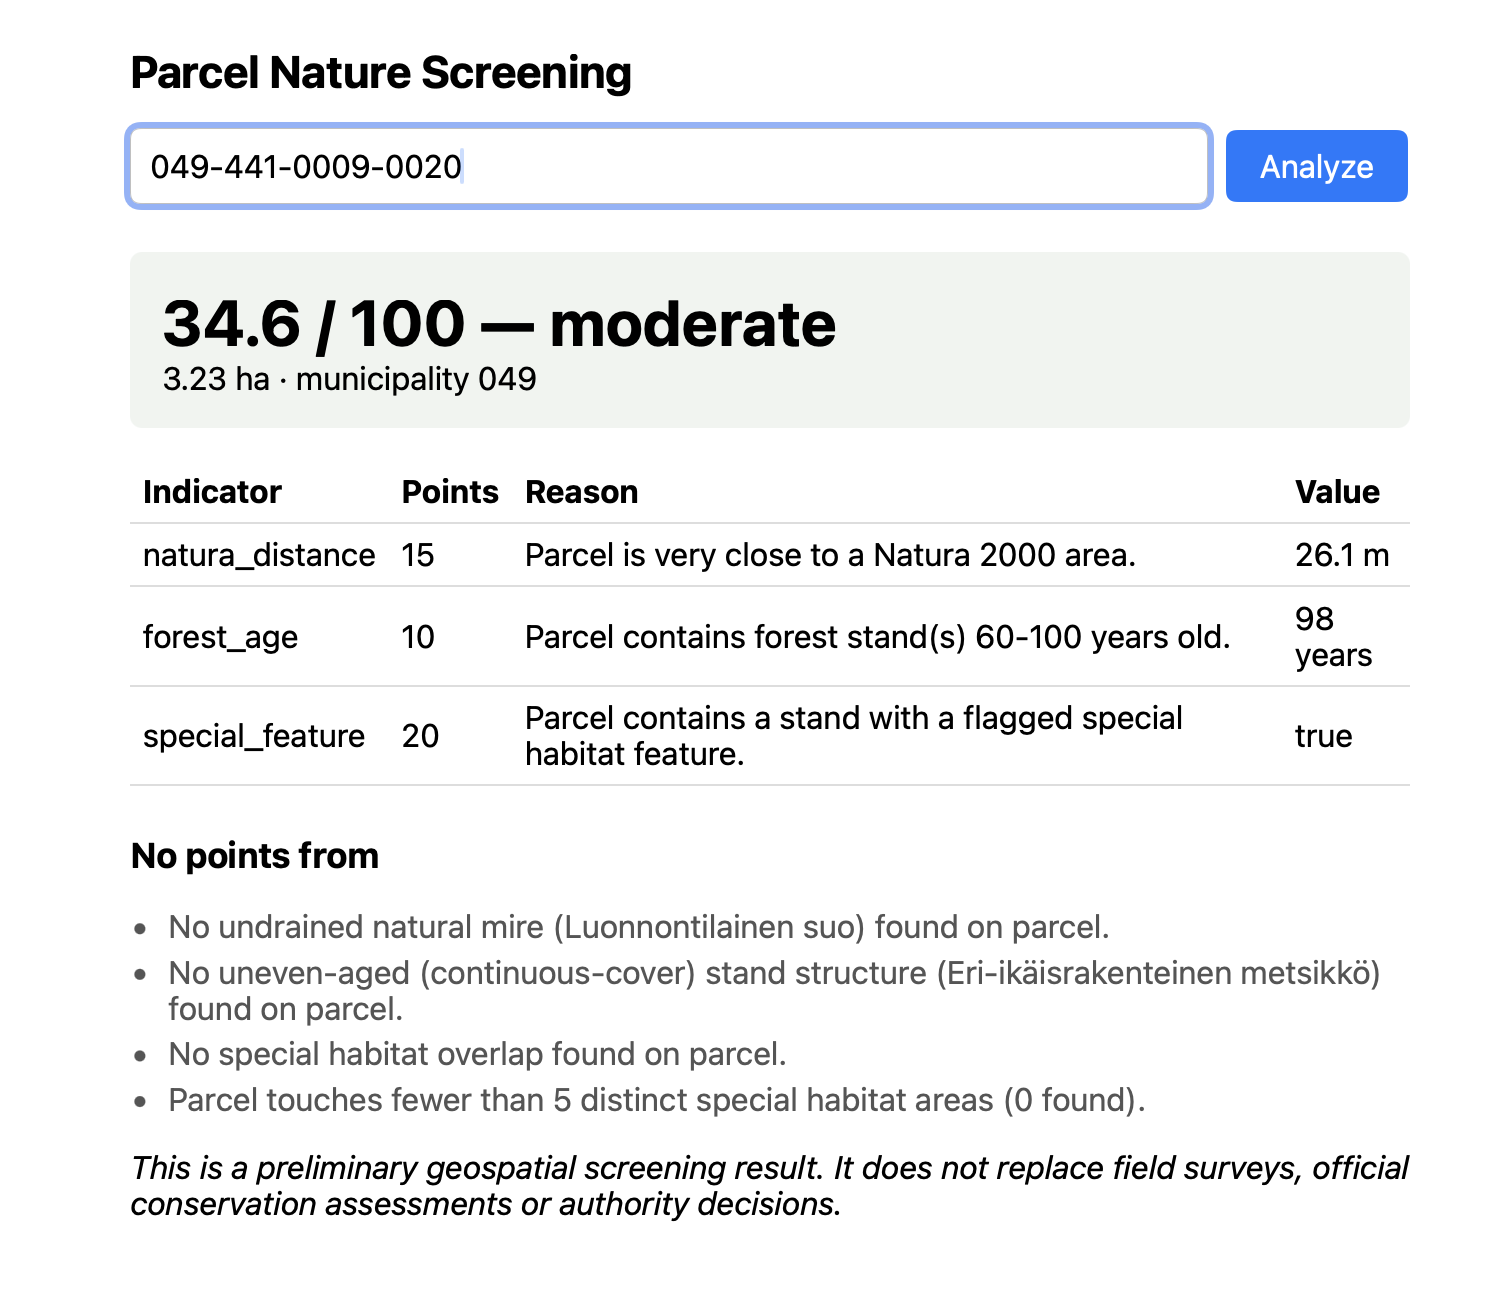
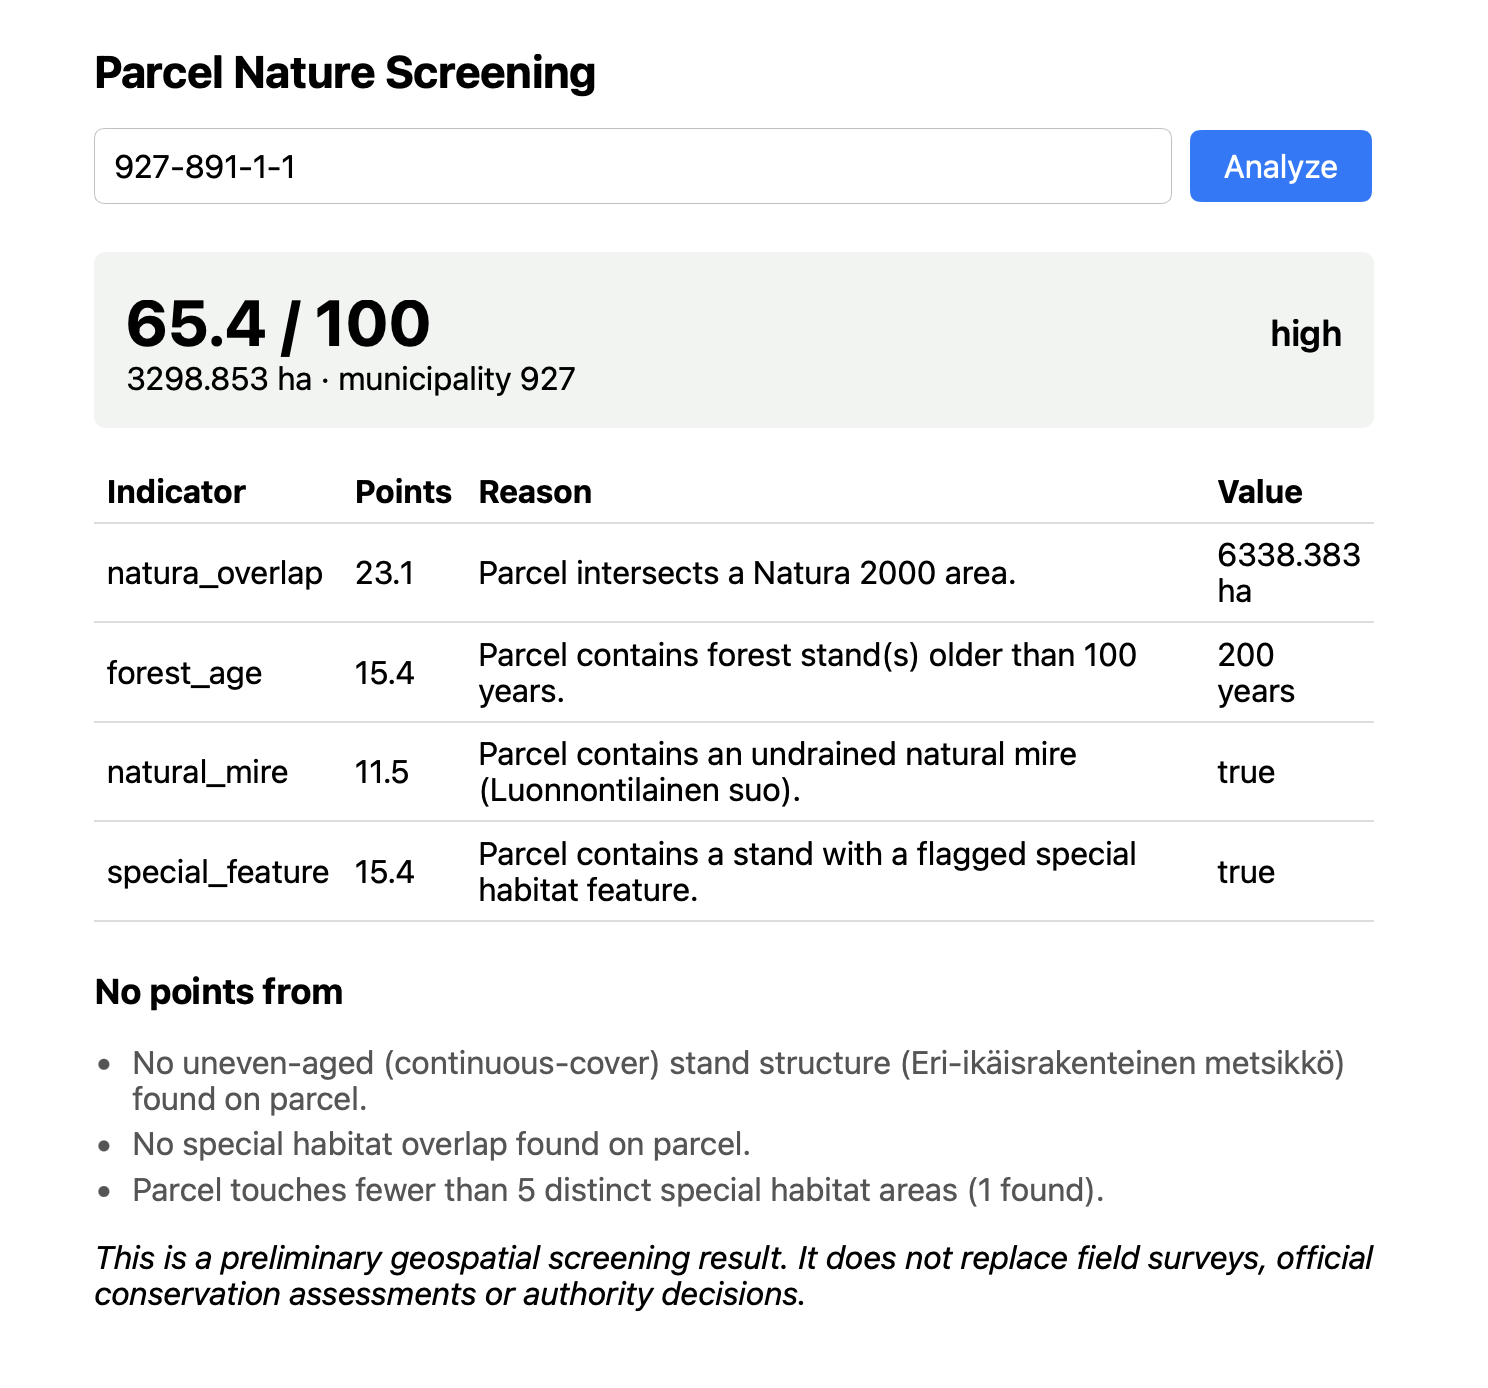
Modified so that unpadded property identifiers are accepted and  scaled each indicators point

diff --git a/src/nature_screening/api/static/index.html b/src/nature_screening/api/static/index.html
@@ -14,7 +14,9 @@
   table { width: 100%; border-collapse: collapse; margin-top: 1rem; }
   th, td { text-align: left; padding: 0.4rem; border-bottom: 1px solid #ddd; }
   .score-box { padding: 1rem; border-radius: 6px; background: #f0f4f0; margin-bottom: 1rem; }
+  .score-box .score-row { display: flex; justify-content: space-between; align-items: baseline; }
   .score-box .score { font-size: 2rem; font-weight: bold; }
+  .score-box .class { font-size: 1.1rem; font-weight: 600; }
   h2 { font-size: 1.1rem; margin-top: 1.5rem; }
   ul.no-points { padding-left: 1.2rem; color: #555; }
   ul.no-points li { margin-bottom: 0.3rem; }
@@ -83,7 +85,10 @@ function renderResult(data) {
 
   return `
     <div class="score-box">
-      <div class="score">${data.biodiversity_potential.score} / 100 — ${data.biodiversity_potential.class}</div>
+      <div class="score-row">
+        <span class="score">${data.biodiversity_potential.score} / 100</span>
+        <span class="class">${data.biodiversity_potential.class}</span>
+      </div>
       <div>${data.parcel.area_ha} ha · municipality ${data.parcel.municipality_code}</div>
     </div>
     <table>

diff --git a/src/nature_screening/analysis/scoring.py b/src/nature_screening/analysis/scoring.py
@@ -1,8 +1,13 @@
 # Highest raw point total any parcel can reach (all indicators triggered,
 # Natura overlap taking the 30-point branch instead of natura_distance):
-# 30 + 20 + 15 + 15 + 20 + 20 + 10 = 130. score_indicators() divides by this
-# to express score_total on a 0-100 scale.
+# 30 + 20 + 15 + 15 + 20 + 20 + 10 = 130. Every indicator's points are scaled
+# by this so both the per-indicator points and score_total sit on a 0-100
+# scale, and the displayed per-indicator points always sum to score_total.
 MAX_RAW_SCORE = 130
+
+
+def scale_points(raw_points: int) -> float:
+    return round(raw_points * 100 / MAX_RAW_SCORE, 1)
 
 
 def classify_score(score: float) -> str:
@@ -18,11 +23,12 @@ def classify_score(score: float) -> str:
 
 def score_natura_overlap(natura_overlap_ha: float) -> dict:
     if natura_overlap_ha > 0:
+        points = scale_points(30)
         return {
-            "points": 30,
+            "points": points,
             "evidence": {
                 "indicator": "natura_overlap",
-                "points": 30,
+                "points": points,
                 "reason": "Parcel intersects a Natura 2000 area.",
                 "value": round(natura_overlap_ha, 3),
                 "unit": "ha",
@@ -59,22 +65,22 @@ def score_natura_distance(nearest_natura_distance_m: float | None) -> dict:
         }
 
     if nearest_natura_distance_m == 0:
-        points = 20
+        raw_points = 20
         reason = "Parcel intersects a Natura 2000 area."
     elif nearest_natura_distance_m <= 250:
-        points = 15
+        raw_points = 15
         reason = "Parcel is very close to a Natura 2000 area."
     elif nearest_natura_distance_m <= 1000:
-        points = 8
+        raw_points = 8
         reason = "Parcel is within 1 km of a Natura 2000 area."
     elif nearest_natura_distance_m <= 5000:
-        points = 3
+        raw_points = 3
         reason = "Parcel is within 5 km of a Natura 2000 area."
     else:
-        points = 0
+        raw_points = 0
         reason = None
 
-    if points == 0:
+    if raw_points == 0:
         return {
             "points": 0,
             "evidence": None,
@@ -85,6 +91,8 @@ def score_natura_distance(nearest_natura_distance_m: float | None) -> dict:
                 "unit": "m",
             },
         }
+
+    points = scale_points(raw_points)
 
     return {
         "points": points,
@@ -118,10 +126,10 @@ def score_forest_age(max_mean_age: int | None) -> dict:
         }
 
     if max_mean_age > 100:
-        points = 20
+        raw_points = 20
         reason = "Parcel contains forest stand(s) older than 100 years."
     elif max_mean_age >= 60:
-        points = 10
+        raw_points = 10
         reason = "Parcel contains forest stand(s) 60-100 years old."
     else:
         return {
@@ -134,6 +142,8 @@ def score_forest_age(max_mean_age: int | None) -> dict:
                 "unit": "years",
             },
         }
+
+    points = scale_points(raw_points)
 
     return {
         "points": points,
@@ -162,11 +172,13 @@ def score_natural_mire(has_natural_mire: bool) -> dict:
             },
         }
 
+    points = scale_points(15)
+
     return {
-        "points": 15,
+        "points": points,
         "evidence": {
             "indicator": "natural_mire",
-            "points": 15,
+            "points": points,
             "reason": "Parcel contains an undrained natural mire (Luonnontilainen suo).",
             "value": True,
             "unit": None,
@@ -196,11 +208,13 @@ def score_uneven_aged_structure(has_uneven_aged_structure: bool) -> dict:
             },
         }
 
+    points = scale_points(15)
+
     return {
-        "points": 15,
+        "points": points,
         "evidence": {
             "indicator": "uneven_aged_structure",
-            "points": 15,
+            "points": points,
             "reason": "Parcel contains an uneven-aged stand (Eri-ikäisrakenteinen metsikkö).",
             "value": True,
             "unit": None,
@@ -223,11 +237,13 @@ def score_special_feature(has_special_feature: bool) -> dict:
             },
         }
 
+    points = scale_points(20)
+
     return {
-        "points": 20,
+        "points": points,
         "evidence": {
             "indicator": "special_feature",
-            "points": 20,
+            "points": points,
             "reason": "Parcel contains a stand with a flagged special habitat feature.",
             "value": True,
             "unit": None,
@@ -242,13 +258,13 @@ def score_special_habitat_overlap(special_habitat_overlap_ha: float) -> dict:
     """
 
     if special_habitat_overlap_ha > 5:
-        points = 20
+        raw_points = 20
         reason = "Parcel has substantial special habitat overlap (over 5 ha)."
     elif special_habitat_overlap_ha > 1:
-        points = 12
+        raw_points = 12
         reason = "Parcel has notable special habitat overlap (over 1 ha)."
     elif special_habitat_overlap_ha > 0.01:
-        points = 5
+        raw_points = 5
         reason = "Parcel has minor special habitat overlap."
     else:
         return {
@@ -261,6 +277,8 @@ def score_special_habitat_overlap(special_habitat_overlap_ha: float) -> dict:
                 "unit": "ha",
             },
         }
+
+    points = scale_points(raw_points)
 
     return {
         "points": points,
@@ -297,11 +315,13 @@ def score_special_habitat_diversity(special_habitat_count: int) -> dict:
             },
         }
 
+    points = scale_points(10)
+
     return {
-        "points": 10,
+        "points": points,
         "evidence": {
             "indicator": "special_habitat_diversity",
-            "points": 10,
+            "points": points,
             "reason": f"Parcel touches {special_habitat_count} separate special habitat areas.",
             "value": special_habitat_count,
             "unit": "areas",
@@ -316,9 +336,8 @@ def score_indicators(indicators: dict) -> dict:
     no_points_evidence = []
 
     def record(result: dict) -> None:
-        total_score_delta = result["points"]
         nonlocal total_score
-        total_score += total_score_delta
+        total_score += result["points"]
 
         if result["evidence"] is not None:
             evidence.append(result["evidence"])
@@ -351,11 +370,13 @@ def score_indicators(indicators: dict) -> dict:
     ]:
         record(result)
 
-    scaled_score = round(total_score / MAX_RAW_SCORE * 100, 1)
+    # total_score is already a sum of numbers rounded to 1 decimal each;
+    # round again to clean up any binary-float drift (e.g. 23.1 + 11.5).
+    score_total = round(total_score, 1)
 
     return {
-        "score_total": scaled_score,
-        "score_class": classify_score(scaled_score),
+        "score_total": score_total,
+        "score_class": classify_score(score_total),
         "evidence": evidence,
         "no_points_evidence": no_points_evidence,
     }

diff --git a/src/nature_screening/api/main.py b/src/nature_screening/api/main.py
@@ -10,6 +10,7 @@ from nature_screening.etl.ensure_coverage import (
     ensure_parcel_exists,
     ensure_special_habitat_coverage,
 )
+from nature_screening.etl.import_parcels import normalize_property_id
 
 app = FastAPI(title="Parcel Nature Screening API")
 
@@ -19,9 +20,18 @@ def health_check():
     return {"status": "ok"}
 
 
+def _parse_property_id(raw: str) -> str:
+    property_id = normalize_property_id(raw)
+
+    if property_id is None:
+        raise HTTPException(status_code=400, detail=f"Invalid property identifier: {raw}")
+
+    return property_id
+
+
 @app.get("/parcels/{property_id}")
 def get_parcel(property_id: str):
-    parcel = get_parcel_by_property_id(property_id)
+    parcel = get_parcel_by_property_id(_parse_property_id(property_id))
 
     if parcel is None:
         raise HTTPException(status_code=404, detail="Parcel not found")
@@ -31,6 +41,7 @@ def get_parcel(property_id: str):
 
 @app.get("/parcels/{property_id}/analysis")
 def get_parcel_analysis(property_id: str):
+    property_id = _parse_property_id(property_id)
     ensure_parcel_exists(property_id)
 
     parcel = get_parcel_by_property_id(property_id)

diff --git a/tests/test_scoring.py b/tests/test_scoring.py
@@ -68,6 +68,23 @@ def test_missing_distance_does_not_crash():
     assert result["evidence"] == []
 
 
+def test_evidence_points_sum_to_score_total():
+    indicators = {
+        "natura_overlap_ha": 0,
+        "nearest_natura_distance_m": 200,
+        "max_mean_age": 120,
+        "has_natural_mire": True,
+        "has_uneven_aged_structure": True,
+        "has_special_feature": True,
+        "special_habitat_overlap_ha": 6,
+        "special_habitat_count": 5,
+    }
+
+    result = score_indicators(indicators)
+
+    assert round(sum(item["points"] for item in result["evidence"]), 1) == result["score_total"]
+
+
 def test_no_points_evidence_explains_unscored_indicators():
     indicators = {
         "natura_overlap_ha": 0,
